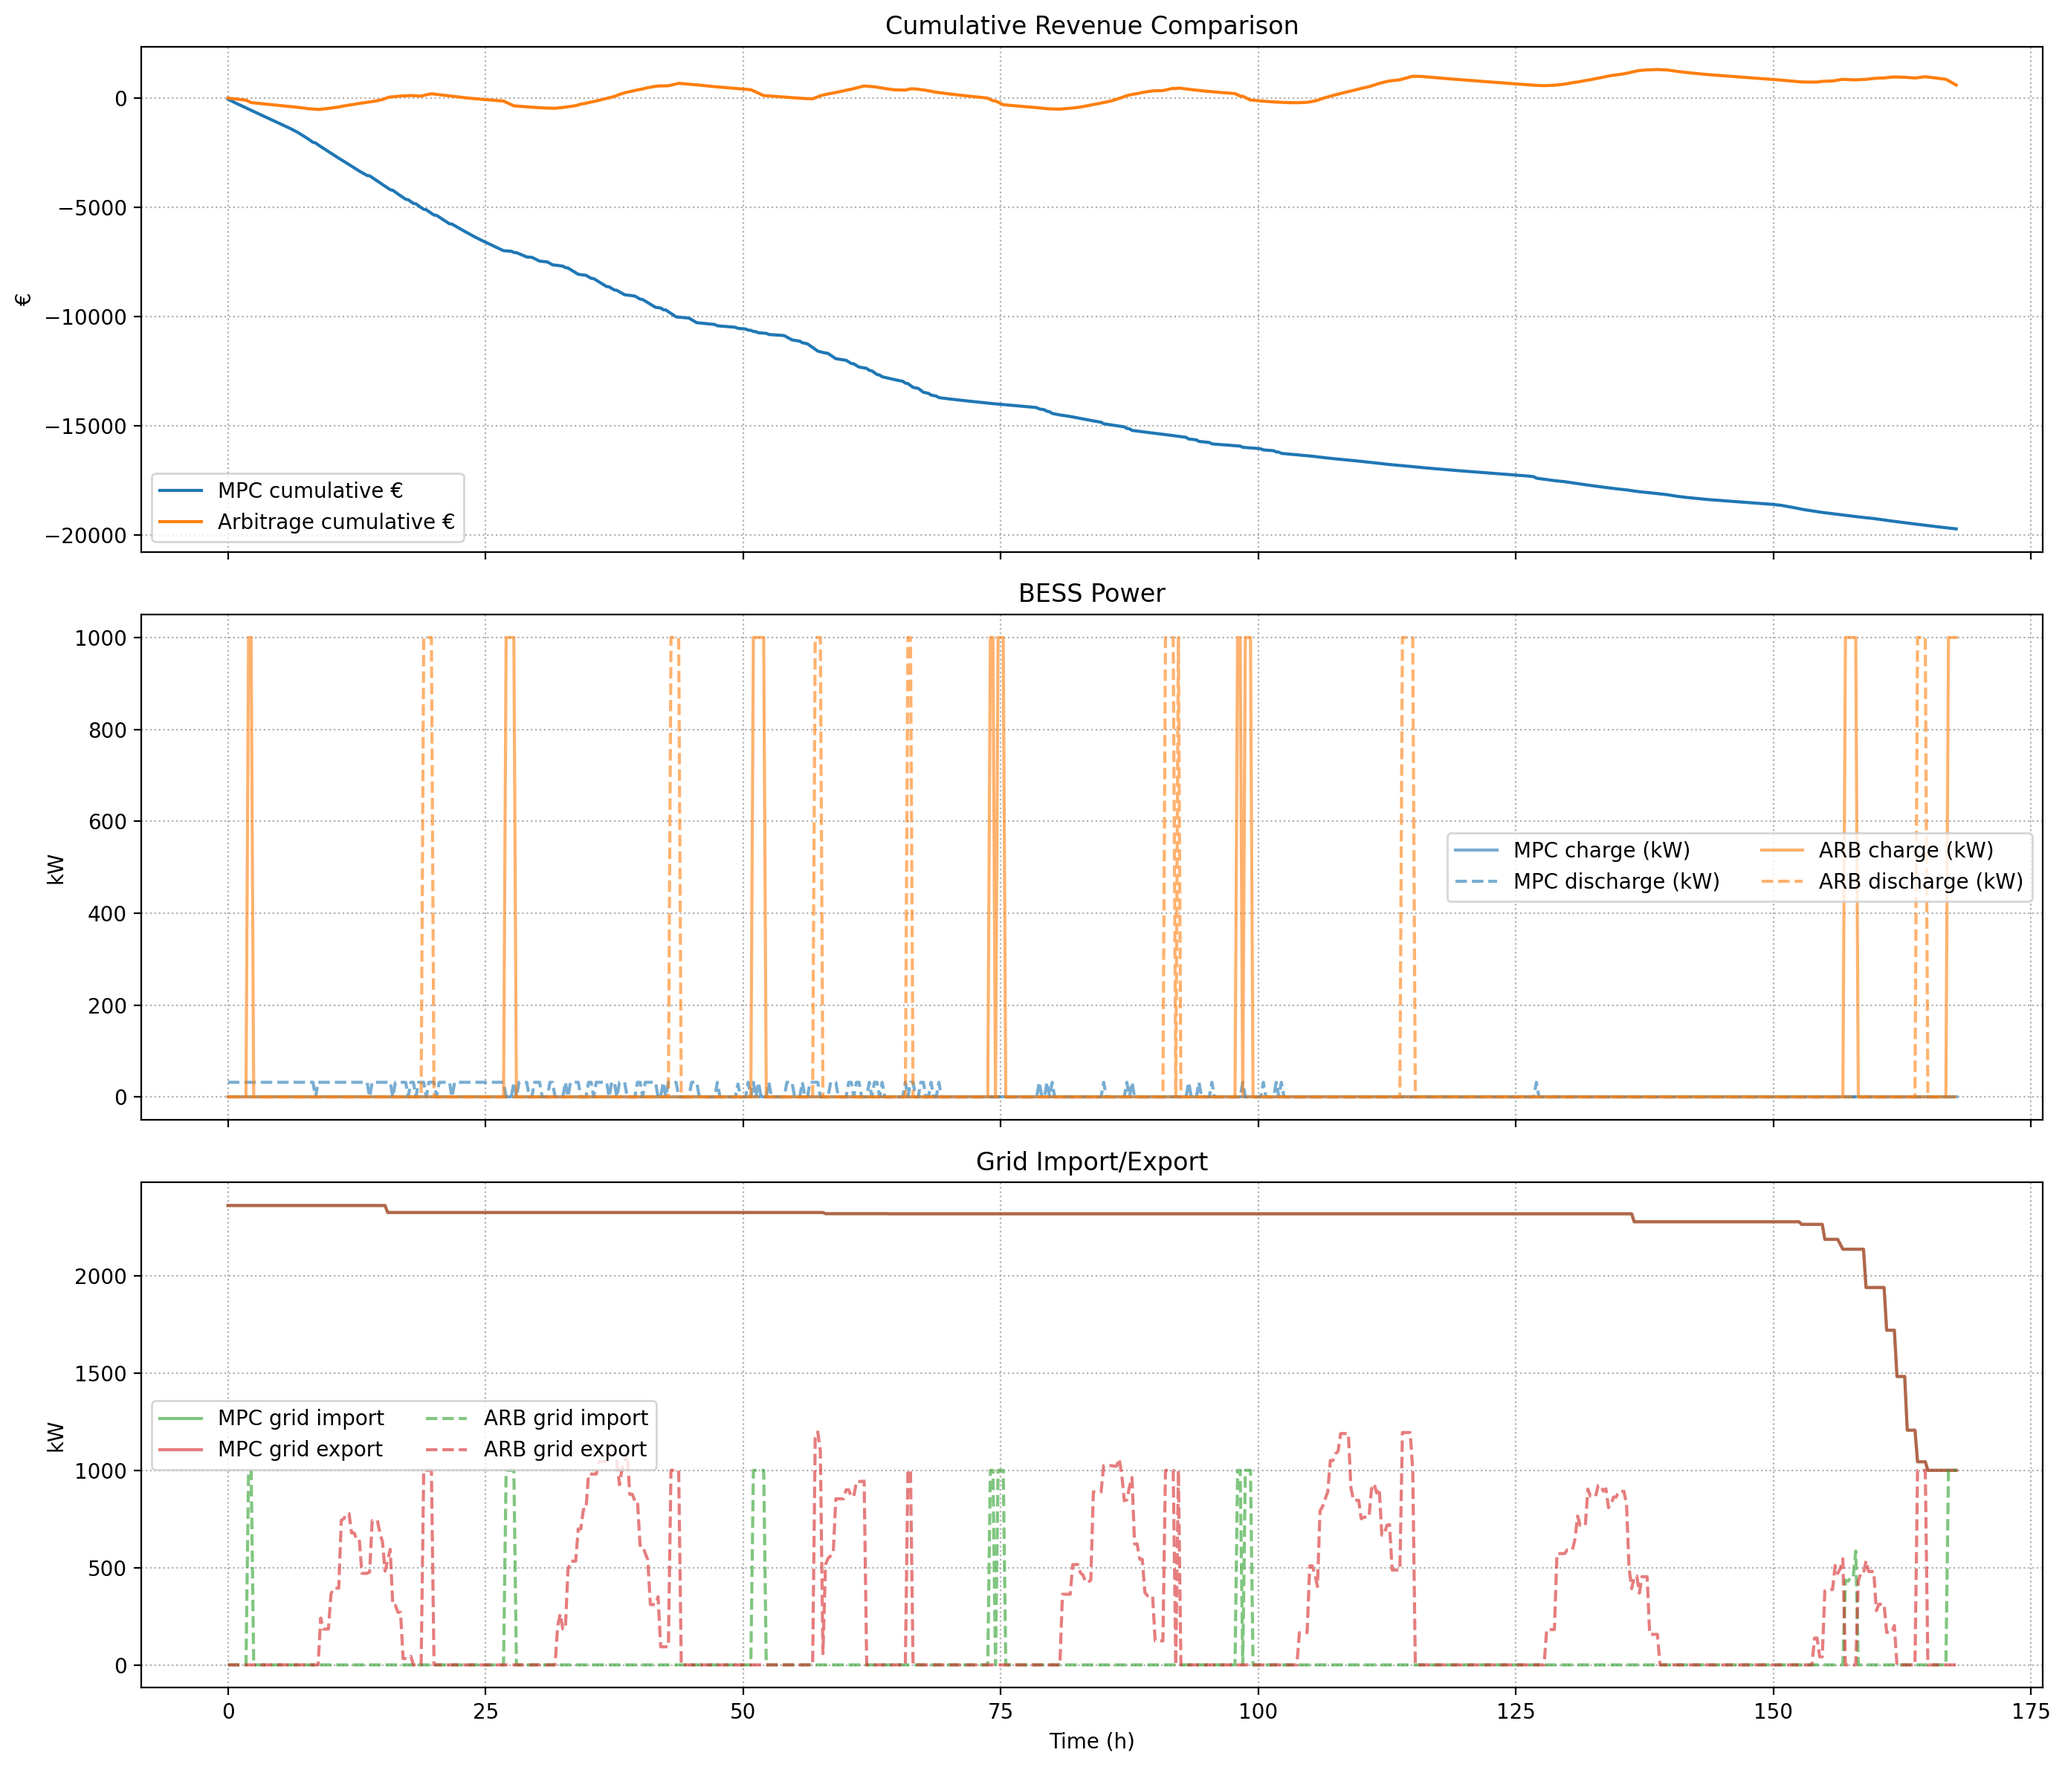
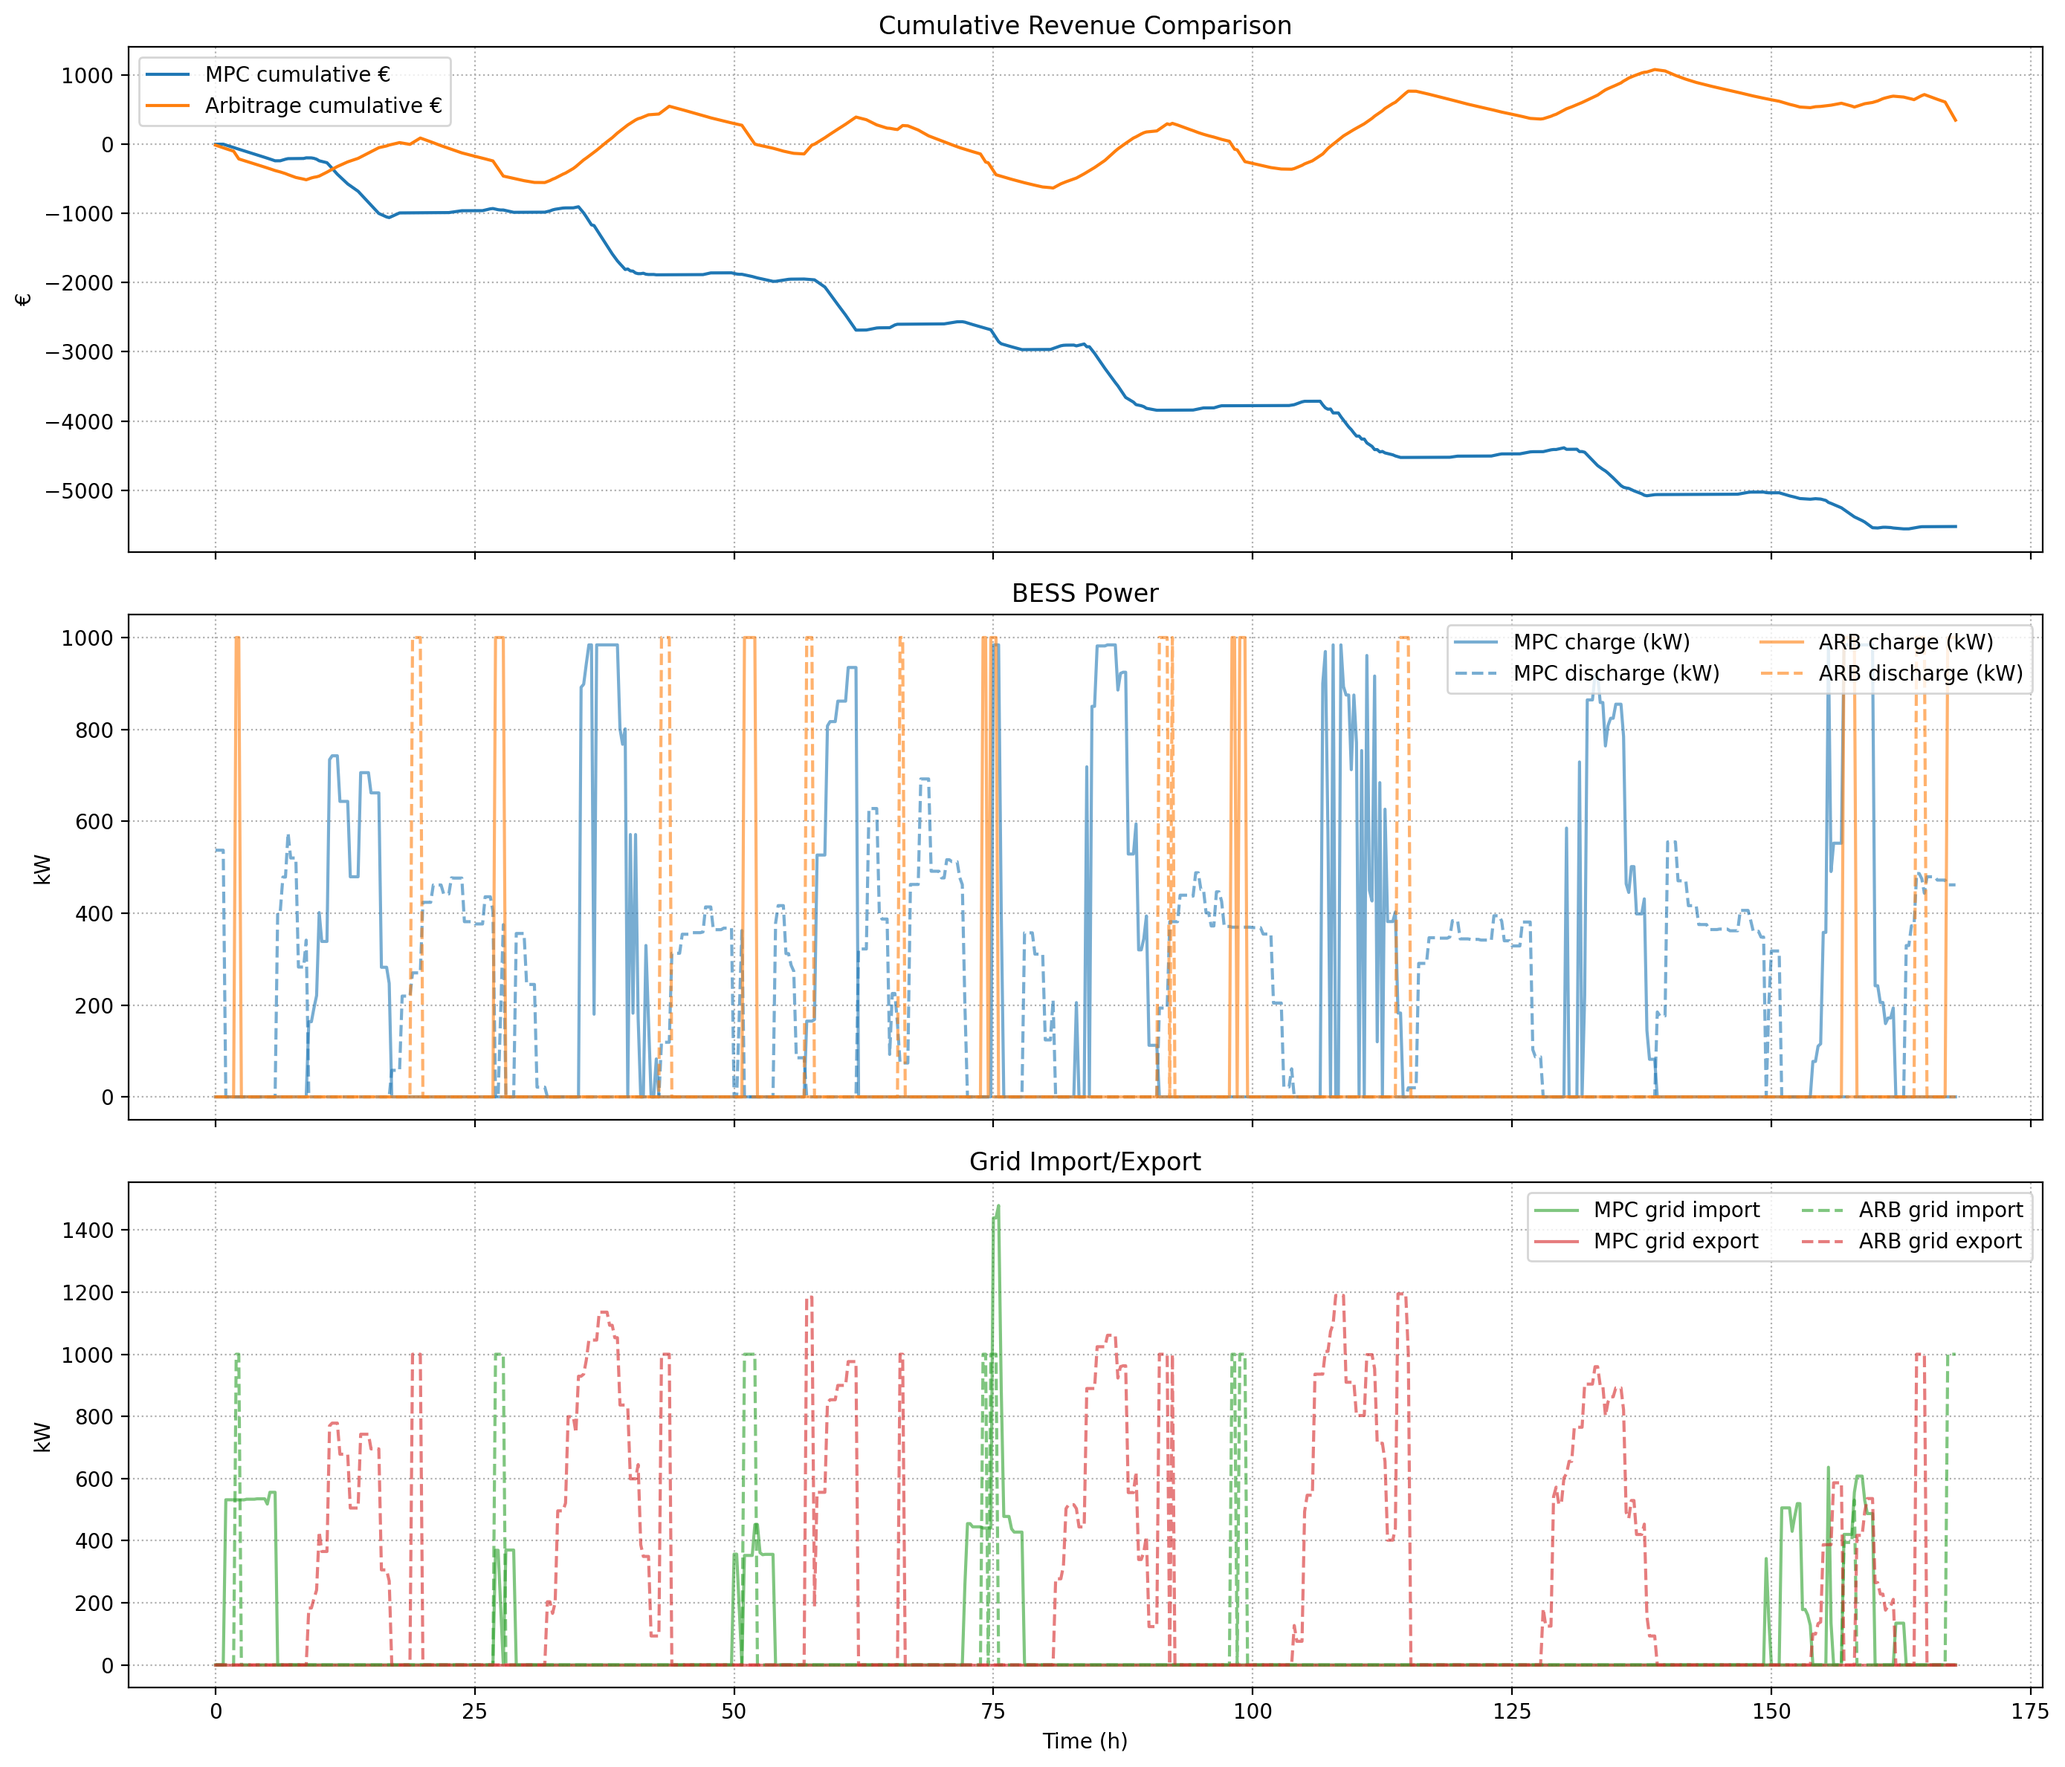
Update comparison controller plots prices add

diff --git a/Computing Files/compare_controllers.py b/Computing Files/compare_controllers.py
@@ -9,6 +9,7 @@ from Controller.arbitrage_controller import ArbitrageController
 import PostPlot.post_process as post_process
 import PostPlot.plots as plots
 import matplotlib.pyplot as plt
+from matplotlib.patches import Patch
 
 
 def pad_to_horizon(arr, horizon):
@@ -145,7 +146,7 @@ def compute_kpis(results, revenues, data):
 def plot_comparison(data, res_mpc, rev_mpc, res_arb, rev_arb, save_dir):
     os.makedirs(save_dir, exist_ok=True)
     t = data['time_steps']
-    fig, axes = plt.subplots(3, 1, figsize=(14, 12), sharex=True)
+    fig, axes = plt.subplots(4, 1, figsize=(14, 16), sharex=True)
 
     # 1) Cumulative revenue
     cum_mpc = np.cumsum(rev_mpc['total_net_per_step'])
@@ -173,10 +174,64 @@ def plot_comparison(data, res_mpc, rev_mpc, res_arb, rev_arb, save_dir):
     axes[2].plot(t, res_arb['P_grid_import_vals'], label='ARB grid import', color='tab:green', linestyle='--', alpha=0.6)
     axes[2].plot(t, res_arb['P_grid_export_vals'], label='ARB grid export', color='tab:red', linestyle='--', alpha=0.6)
     axes[2].set_title('Grid Import/Export')
-    axes[2].set_xlabel('Time (h)')
     axes[2].set_ylabel('kW')
     axes[2].grid(True, linestyle=':')
     axes[2].legend(ncol=2)
+
+    # 4) Price with total buy/sell shading (overall import/export across the site)
+    ax = axes[3]
+    buy_price = np.asarray(data['grid_buy_price'])
+    sell_price = np.asarray(data['grid_sell_price'])
+    ax.plot(t, buy_price, label='Grid Buy Price (€/kWh)', color='blue', linewidth=2, zorder=3)
+    ax.plot(t, sell_price, label='Grid Sell Price (€/kWh)', color='lightblue', linestyle='--', linewidth=2, zorder=3)
+
+    # Use link-based totals for overall site import/export
+    imp_mpc = np.asarray(res_mpc['P_grid_import_vals'])
+    exp_mpc = np.asarray(res_mpc['P_grid_export_vals'])
+    imp_arb = np.asarray(res_arb['P_grid_import_vals'])
+    exp_arb = np.asarray(res_arb['P_grid_export_vals'])
+    tol = 1e-6
+    # Normalize alpha by max magnitude across both controllers
+    max_imp = float(max(1e-9, np.max([np.max(imp_mpc), np.max(imp_arb)])))
+    max_exp = float(max(1e-9, np.max([np.max(exp_mpc), np.max(exp_arb)])))
+    dt = float(data.get('delta_t', 0.25))
+
+    # Shade for MPC (darker hues)
+    for i in range(len(t)):
+        x0 = t[i]
+        x1 = x0 + dt
+        if imp_mpc[i] > tol:
+            alpha = 0.4 * (imp_mpc[i] / max_imp)
+            ax.axvspan(x0, x1, color='forestgreen', alpha=alpha, linewidth=0, zorder=0)
+        elif exp_mpc[i] > tol:
+            alpha = 0.4 * (exp_mpc[i] / max_exp)
+            ax.axvspan(x0, x1, color='firebrick', alpha=alpha, linewidth=0, zorder=0)
+
+    # Shade for ARBITRAGE (lighter hues)
+    for i in range(len(t)):
+        x0 = t[i]
+        x1 = x0 + dt
+        if imp_arb[i] > tol:
+            alpha = 0.3 * (imp_arb[i] / max_imp)
+            ax.axvspan(x0, x1, color='limegreen', alpha=alpha, linewidth=0, zorder=1)
+        elif exp_arb[i] > tol:
+            alpha = 0.3 * (exp_arb[i] / max_exp)
+            ax.axvspan(x0, x1, color='salmon', alpha=alpha, linewidth=0, zorder=1)
+
+    ax.set_title('Market Price with Total Grid Buy/Sell Shading (Intensity ∝ Power)')
+    ax.set_xlabel('Time (h)')
+    ax.set_ylabel('€/kWh')
+    ax.grid(True, linestyle=':')
+    # Legend patches explaining shading
+    shade_legend = [
+        Patch(facecolor='forestgreen', alpha=0.4, label='MPC: Import (darker=more kW)'),
+        Patch(facecolor='firebrick', alpha=0.4, label='MPC: Export (darker=more kW)'),
+        Patch(facecolor='limegreen', alpha=0.3, label='ARB: Import (darker=more kW)'),
+        Patch(facecolor='salmon', alpha=0.3, label='ARB: Export (darker=more kW)'),
+    ]
+    price_lines = ax.legend(loc='upper right', fontsize=9)
+    ax.add_artist(price_lines)
+    ax.legend(handles=shade_legend, loc='upper left', fontsize=9)
 
     plt.tight_layout()
     out_path = os.path.join(save_dir, 'Comparison_MPC_vs_Arbitrage.png')

diff --git a/Computing Files/Controller/mpc.py b/Computing Files/Controller/mpc.py
@@ -155,7 +155,7 @@ class MPC:
 
         # No manual constraints/damping: rely on PyPSA standard LP and costs
 
-        # Build model and add MILP mutual exclusivity for grid import/export
+        # Build model (or rebuild with updated time series) and add MILP mutual exclusivity for grid import/export
         n.optimize.create_model()
         try:
             m = n.model
@@ -173,6 +173,9 @@ class MPC:
                 bigM_exp = float(n.links.loc["Grid_Export", "p_nom"]) if "Grid_Export" in n.links.index else 0.0
 
                 # Vectorized constraints over all snapshots (aligns on 'snapshots' coordinate)
+                # Enforce non-negativity and big-M upper bounds
+                m.add_constraints(grid_imp_p >= 0)
+                m.add_constraints(grid_exp_p >= 0)
                 m.add_constraints(grid_imp_p <= bigM_imp * z_imp)
                 m.add_constraints(grid_exp_p <= bigM_exp * z_exp)
                 m.add_constraints(z_imp + z_exp <= 1)
